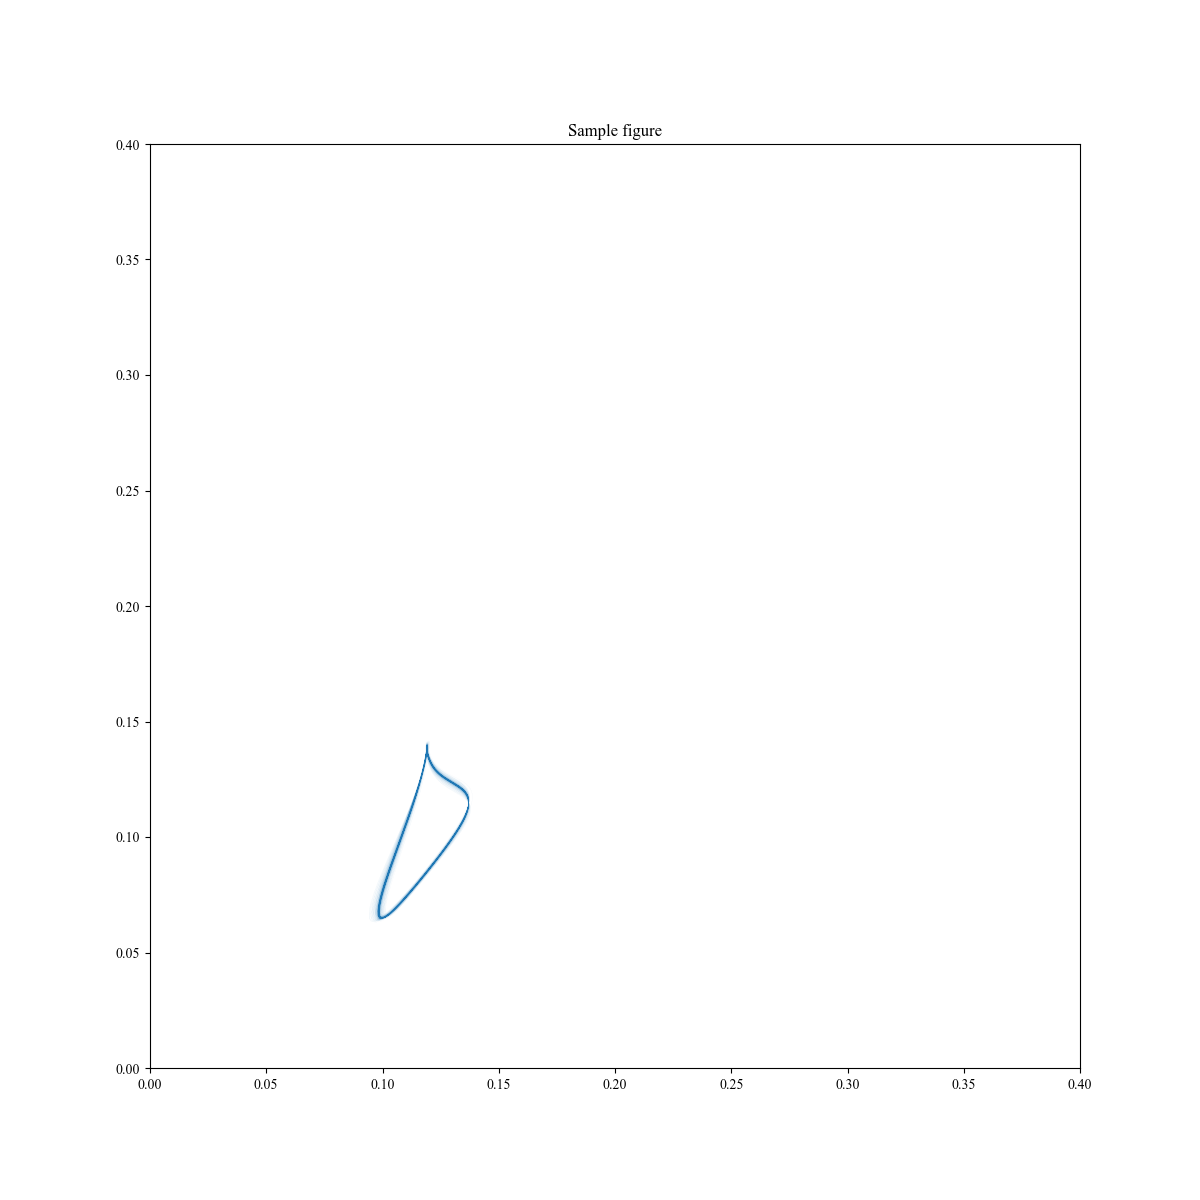
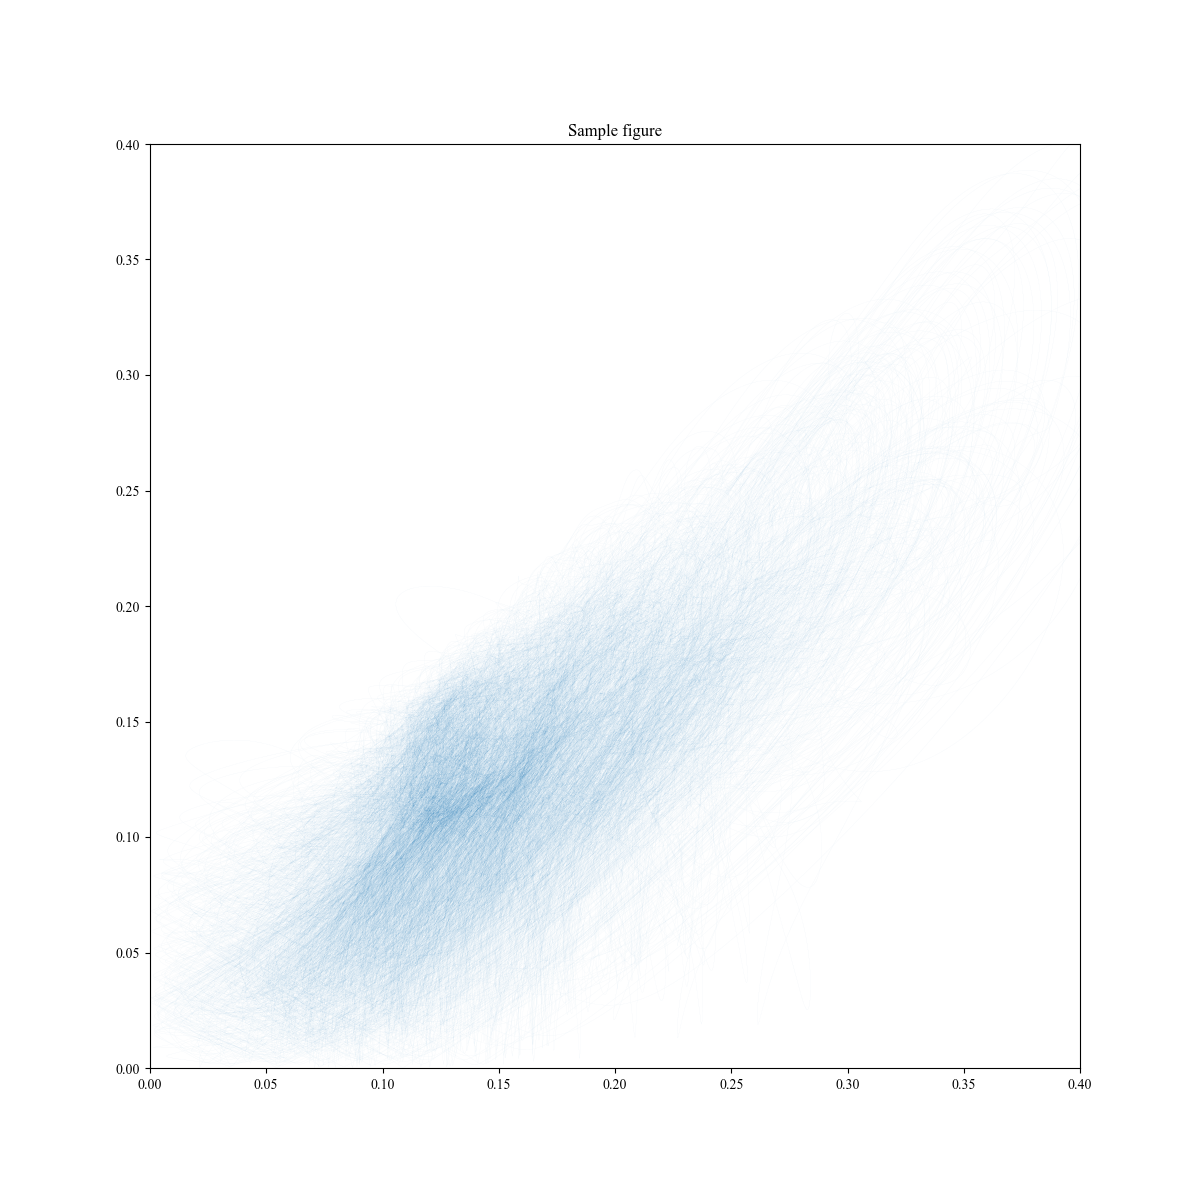
PO isn't attractor

Changed region(s): [[0.185, 0.4625, 0.6475, 0.8633]]

diff --git a/code/stagger_and_step_sync.cpp b/code/stagger_and_step_sync.cpp
@@ -30,18 +30,18 @@ std::tuple<Eigen::VectorXd, Eigen::VectorXd, Eigen::VectorXcd> calc_next(ShellMo
 int main(){
     auto start = std::chrono::system_clock::now(); // 計測開始時間
     const double nu = 0.00018;
-    const double beta = 0.444;
+    const double beta = 0.445;
     const std::complex<double> f = std::complex<double>(1.0,1.0) * 5.0 * 0.001;
     const double dt = 0.01;
     const double t_0 = 0;
-    const double t = 10000;
+    const double t = 1000;
     const double latter = 1;
-    const double check = 5000;
-    const double progress = 500;
+    const double check = 1000;
+    const double progress = 1000;
     int limit = 1e+5; //limitation of trial of stagger and step
-    Eigen::MatrixXcd loaded = npy2EigenMat<std::complex<double>>("../../generated_lam/sync_gen_laminar_beta_0.444nu_0.00018_dt0.01_3000period2000check1000progress10^-1-10^2147483647perturb_4-7_4-10_4-13_7-10_7-13_10-13_5-8_5-11_5-14_8-11_8-14_11-14_6-9_6-12_9-12.npy");
-    Eigen::VectorXcd x_0 = loaded.block(0, 2000*100, 14, 1);
-    // Eigen::VectorXcd x_0 = npy2EigenVec<std::complex<double>>("../../initials/beta0.444_nu0.00018_2000period_dt0.01_4-7_4-10_4-13_7-10_7-13_10-13_5-8_5-11_5-14_8-11_8-14_11-14_6-9_6-12_9-12.npy");
+    // Eigen::MatrixXcd loaded = npy2EigenMat<std::complex<double>>("../../generated_lam/sync_gen_laminar_beta_0.444nu_0.00018_dt0.01_3000period2000check1000progress10^-1-10^2147483647perturb_4-7_4-10_4-13_7-10_7-13_10-13_5-8_5-11_5-14_8-11_8-14_11-14_6-9_6-12_9-12.npy");
+    // Eigen::VectorXcd x_0 = loaded.block(0, 2000*100, 14, 1);
+    Eigen::VectorXcd x_0 = npy2EigenVec<std::complex<double>>("../../initials/beta0.444_nu0.00018_2000period_dt0.01_4-7_4-10_4-13_7-10_7-13_10-13_5-8_5-11_5-14_8-11_8-14_11-14_6-9_6-12_9-12.npy");
     ShellModel SM(nu, beta, f, dt, t_0, t, latter, x_0);
     Eigen::MatrixXcd Dummy_Laminar(x_0.rows()+1, 1); //dummy matrix to use LongLaminar Class
     LongLaminar LL(nu, beta, f, dt, t_0, t, latter, x_0, Dummy_Laminar, 0.01, 100, check, progress, 8);

diff --git a/code/phase_diff.cpp b/code/phase_diff.cpp
@@ -27,7 +27,7 @@ int shift(double pre_theta, double theta, int rotation_number);
 int main(){
     auto start = std::chrono::system_clock::now(); // 計測開始時間
     double nu = 0.00018;
-    double beta = 0.43;
+    double beta = 0.444;
     std::complex<double> f = std::complex<double>(1.0,1.0) * 5.0 * 0.001;
     double ddt = 0.01;
     double t_0 = 0;
@@ -35,7 +35,7 @@ int main(){
 
     double latter = 1;
     int threads = omp_get_max_threads();
-    Eigen::VectorXcd x_0 = npy2EigenVec<std::complex<double>>("../../initials/beta0.419_nu0.00018_2422period_dt0.01eps0.03.npy");
+    Eigen::VectorXcd x_0 = npy2EigenVec<std::complex<double>>("../../initials/beta0.444_nu0.00018_2000period_dt0.01_4-7_4-10_4-13_7-10_7-13_10-13_5-8_5-11_5-14_8-11_8-14_11-14_6-9_6-12_9-12.npy");
 
     //make pairs of shells to observe phase difference(num begins from 1)
     std::vector<std::pair<int, int>> sync_pairs;
@@ -60,8 +60,8 @@ int main(){
 
     ShellModel solver(nu, beta, f, ddt, t_0, t, latter, x_0);
     std::cout << "calculating trajectory" << std::endl;
-    // Eigen::MatrixXcd trajectory = solver.get_trajectory_(); //wide matrix
-    Eigen::MatrixXcd trajectory = npy2EigenMat<std::complex<double>>("../../generated_lam/sync_gen_laminar_beta_0.43nu_0.00018_dt0.01_5000period3000check100progress10^-8-10^-5perturb_4-7_4-10_4-13_7-10_7-13_10-13_5-8_5-11_5-14_8-11_8-14_11-14_6-9_6-12_9-12.npy"); //wide matrix
+    Eigen::MatrixXcd trajectory = solver.get_trajectory_(); //wide matrix
+    // Eigen::MatrixXcd trajectory = npy2EigenMat<std::complex<double>>("../../generated_lam/sync_gen_laminar_beta_0.43nu_0.00018_dt0.01_5000period3000check100progress10^-8-10^-5perturb_4-7_4-10_4-13_7-10_7-13_10-13_5-8_5-11_5-14_8-11_8-14_11-14_6-9_6-12_9-12.npy"); //wide matrix
     // Eigen::MatrixXcd trajectory = trajectory_.leftCols(500000);
     Eigen::MatrixXd angles = trajectory.topRows(trajectory.rows()-1).cwiseArg().transpose(); //tall matrix
 

diff --git a/code/trajectory_observation.cpp b/code/trajectory_observation.cpp
@@ -15,13 +15,13 @@ namespace plt = matplotlibcpp;
 int main(){
     auto start = std::chrono::system_clock::now(); // 計測開始時間
     double nu = 0.00018;
-    double beta = 0.444;
+    double beta = 0.43;
     std::complex<double> f = std::complex<double>(1.0,1.0) * 5.0 * 0.001;
     double ddt = 0.01;
     double t_0 = 0;
     double t = 1e+5;
     double latter = 1;
-    Eigen::VectorXcd x_0 = npy2EigenVec<std::complex<double>>("../../initials/beta0.444_nu0.00018_2000period_dt0.01_4-7_4-10_4-13_7-10_7-13_10-13_5-8_5-11_5-14_8-11_8-14_11-14_6-9_6-12_9-12.npy");
+    Eigen::VectorXcd x_0 = npy2EigenVec<std::complex<double>>("../../initials/beta0.41575_nu0.00018_14dim_period.npy");
     ShellModel solver(nu, beta, f, ddt, t_0, t, latter, x_0);
     Eigen::MatrixXcd trajectory = solver.get_trajectory_(); 
     // plot settings
@@ -40,7 +40,7 @@ int main(){
         y[i]=trajectory.cwiseAbs()(4, i);
     }
     std::map<std::string, std::string> keywords;
-    keywords["lw"] = "0.01";
+    keywords["lw"] = "0.1";
     plt::xlim(0.0, 0.4);
     plt::ylim(0.0, 0.4);
     plt::plot(x,y, keywords);
